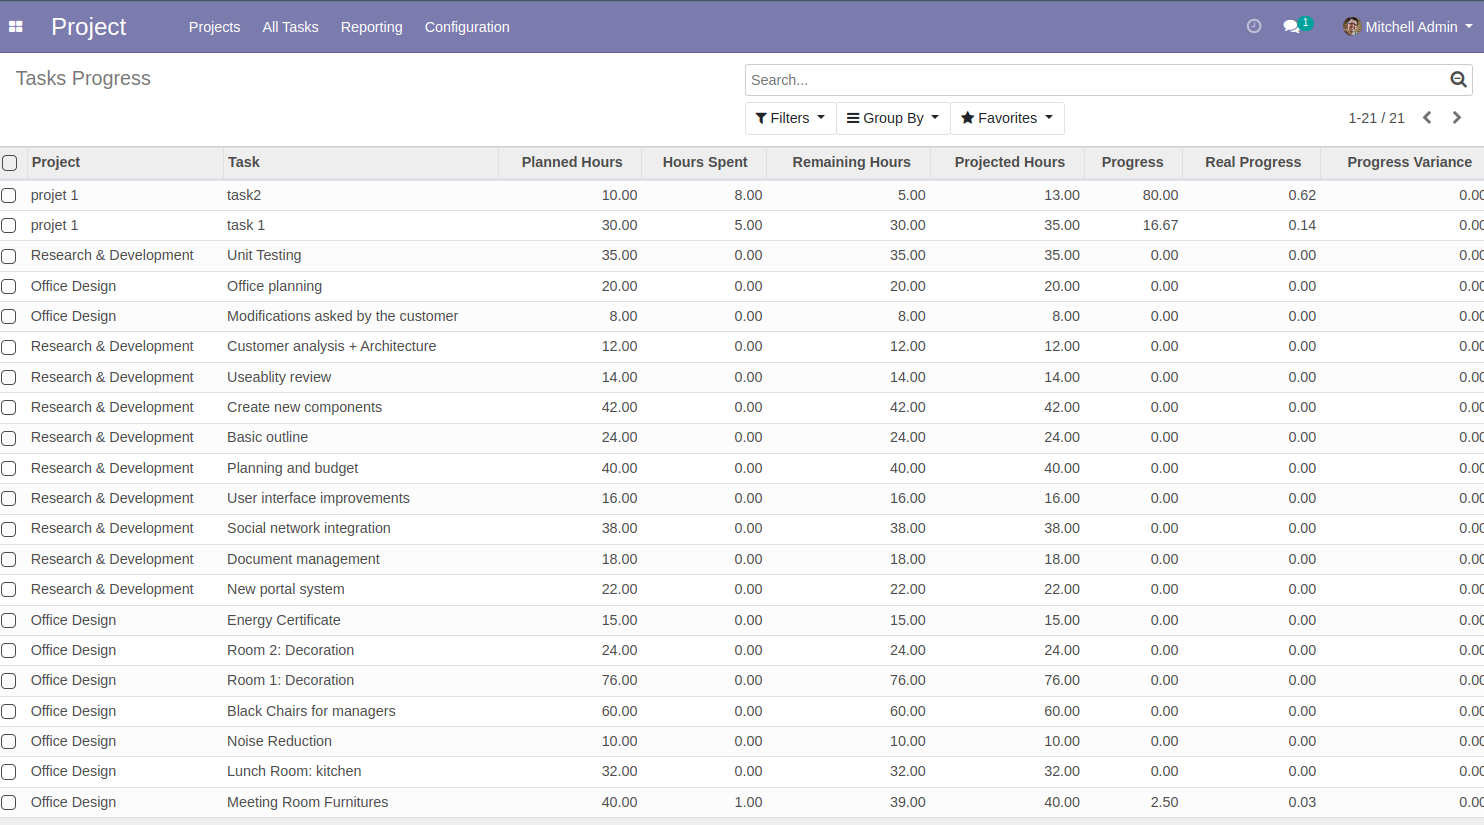
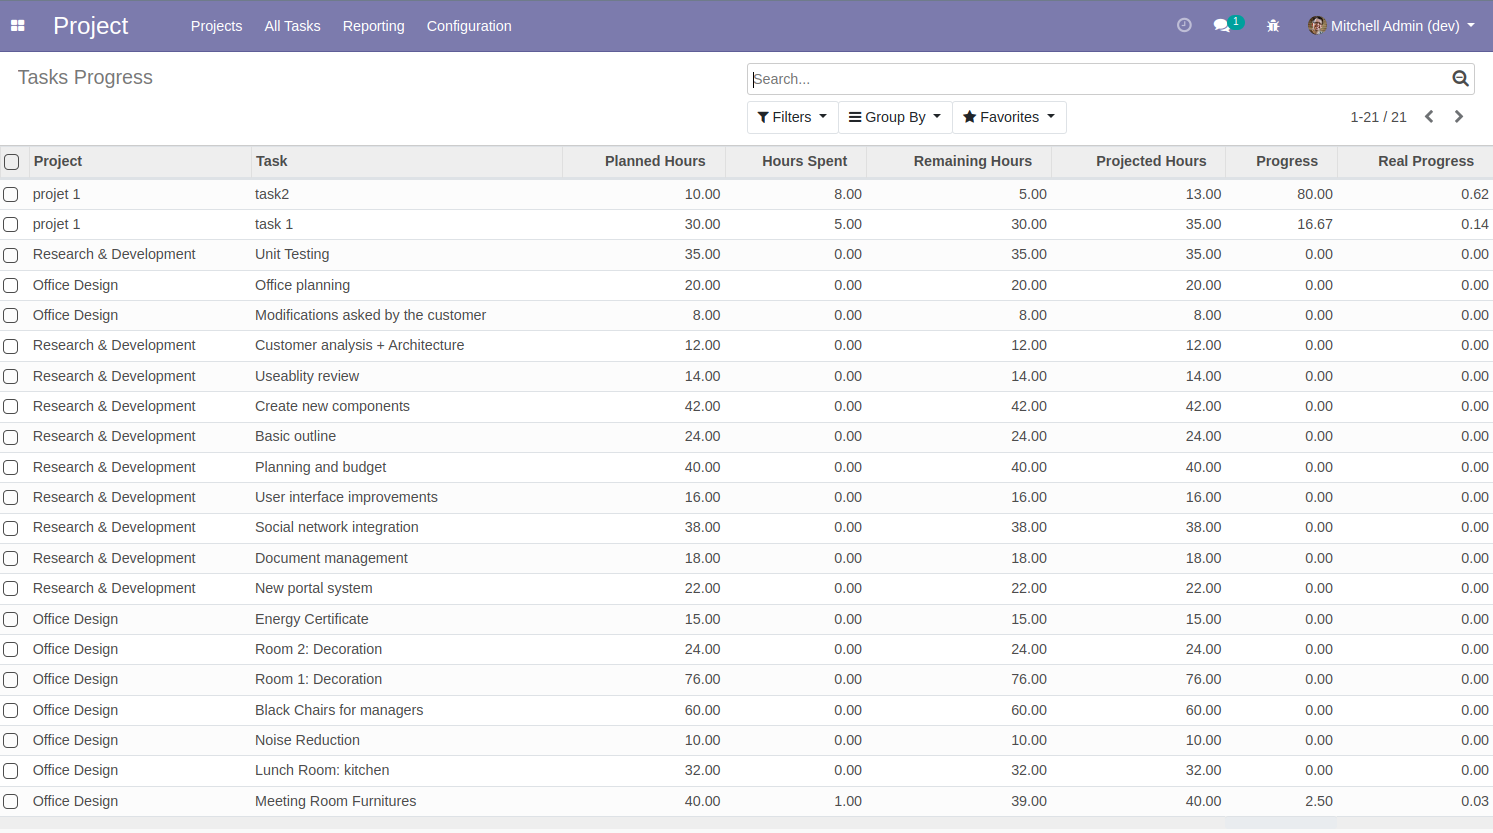
TA#53654 [ADD] New features

diff --git a/project_progress_variance/tests/test_progress_variance.py b/project_progress_variance/tests/test_progress_variance.py
@@ -1,0 +1,114 @@
+# © 2023 Numigi (tm) and all its contributors (https://bit.ly/numigiens)
+# License AGPL-3.0 or later (http://www.gnu.org/licenses/agpl).
+
+from datetime import datetime
+
+from odoo.tests.common import SavepointCase
+
+
+class TestCustomerReference(SavepointCase):
+    @classmethod
+    def setUpClass(cls):
+        super().setUpClass()
+        cls.project = cls.env["project.project"].create(
+            {"name": "test_project", "allow_timesheets": True}
+        )
+        cls.task_1 = cls.env["project.task"].create(
+            {"name": "test_task_1", "project_id": cls.project.id}
+        )
+
+        cls.task_2 = cls.env["project.task"].create(
+            {"name": "test_task_2", "project_id": cls.project.id}
+        )
+
+    # @api.depends("task_ids.planned_hours", "task_ids.effective_hours")
+    # def _compute_total_progress(self):
+    #     for project in self:
+    #         planned_hours = sum(project.task_ids.mapped("planned_hours"))
+    #         effective_hours = sum(project.task_ids.mapped("effective_hours"))
+    #         if planned_hours:
+    #             project.total_progress = effective_hours / planned_hours
+    #         else:
+    #             project.total_progress = 0
+
+    # @api.depends("task_ids.projected_hours", "task_ids.effective_hours")
+    # def _compute_total_real_progress(self):
+    #     for project in self:
+    #         projected_hours = sum(project.task_ids.mapped("projected_hours"))
+    #         effective_hours = sum(project.task_ids.mapped("effective_hours"))
+    #         if projected_hours:
+    #             project.total_real_progress = effective_hours / projected_hours
+    #         else:
+    #             project.total_real_progress = 0
+
+    # @api.depends("total_progress", "total_real_progress")
+    # def _compute_total_progress_variance(self):
+    #     for project in self:
+    #         project.total_progress_variance = (
+    #             project.total_real_progress - project.total_progress
+    #         )
+
+    def test_total_progress(self):
+        self.assertEqual(self.project.total_progress, 0)
+        self._load_analytic_line_remaining_hours_not_updated()
+        self.assertEqual(self.project.total_progress, 0.48)
+
+    def test_total_progress_remaining_hours_updated(self):
+        self.assertEqual(self.project.total_progress, 0)
+        self._load_analytic_line_with_remaining_hours_updated()
+        self.assertEqual(self.project.total_progress, 0.33)
+
+    def test_total_real_progress(self):
+        self.assertEqual(self.project.total_real_progress, 0)
+        self._load_analytic_line_remaining_hours_not_updated()
+        self.assertEqual(self.project.total_real_progress, 0.48)
+
+    def test_total_real_progress_remaining_hours_updated(self):
+        self.assertEqual(self.project.total_real_progress, 0)
+        self._load_analytic_line_with_remaining_hours_updated()
+        self.assertEqual(self.project.total_real_progress, 0.27)
+
+    def test_total_progress_variance(self):
+        self.assertEqual(self.project.total_progress_variance, 0)
+        self._load_analytic_line_remaining_hours_not_updated()
+        self.assertEqual(self.project.total_progress_variance, 0)
+
+    def test_total_progress_variance_remaining_hours_updated(self):
+        self.assertEqual(self.project.total_progress_variance, 0)
+        self._load_analytic_line_with_remaining_hours_updated()
+        self.assertEqual(self.project.total_real_progress, 0.27)
+        self.assertEqual(self.project.total_progress, 0.33)
+        self.assertEqual(self.project.total_progress_variance, -0.06)
+
+    def _load_analytic_line_remaining_hours_not_updated(self):
+        self.task_1.planned_hours = 10
+        self.task_2.planned_hours = 13
+        self._create_analytic_line(
+            datetime(2023, 3, 24, 3), tz="EST", task_id=self.task_1, unit_amount=7
+        )
+        self._create_analytic_line(
+            datetime(2023, 3, 24, 3), tz="EST", task_id=self.task_2, unit_amount=4
+        )
+
+    def _load_analytic_line_with_remaining_hours_updated(self):
+        self.task_1.planned_hours = 30
+        self.task_2.planned_hours = 10
+        self._create_analytic_line(
+            datetime(2023, 3, 24, 3), tz="EST", task_id=self.task_1, unit_amount=5
+        )
+        self._create_analytic_line(
+            datetime(2023, 3, 24, 3), tz="EST", task_id=self.task_2, unit_amount=8
+        )
+        self.task_1.remaining_hours = 30
+        self.task_2.remaining_hours = 5
+
+    def _create_analytic_line(self, datetime_, tz=None, task_id=False, unit_amount=0):
+        self.env["account.analytic.line"].with_context(tz=tz).create(
+            {
+                "date_time": datetime_,
+                "project_id": self.project.id,
+                "task_id": task_id.id,
+                "name": "Test line",
+                "unit_amount": unit_amount,
+            }
+        )

diff --git a/project_projected_hours/tests/test_projected_hours.py b/project_projected_hours/tests/test_projected_hours.py
@@ -1,0 +1,49 @@
+# © 2023 Numigi (tm) and all its contributors (https://bit.ly/numigiens)
+# License AGPL-3.0 or later (http://www.gnu.org/licenses/agpl).
+
+from datetime import datetime
+
+from odoo.tests.common import SavepointCase
+
+
+class TestCustomerReference(SavepointCase):
+    @classmethod
+    def setUpClass(cls):
+        super().setUpClass()
+        cls.project = cls.env["project.project"].create(
+            {"name": "test_project", "allow_timesheets": True}
+        )
+        cls.task_1 = cls.env["project.task"].create(
+            {"name": "test_task_1", "project_id": cls.project.id}
+        )
+
+        cls.task_2 = cls.env["project.task"].create(
+            {"name": "test_task_2", "project_id": cls.project.id}
+        )
+
+    def test_projected_hours(self):
+        self.task_1.planned_hours = 10
+        self._create_analytic_line(
+            datetime(2023, 3, 24, 3), tz="EST", task_id=self.task_1, unit_amount=1
+        )
+        self.assertEqual(self.task_1.projected_hours, 10)
+
+    def test_real_progress(self):
+        self.assertEqual(self.task_2.real_progress, 0)
+        self.task_2.planned_hours = 20
+        self._create_analytic_line(
+            datetime(2023, 3, 24, 3), tz="EST", task_id=self.task_2, unit_amount=3
+        )
+
+        self.assertEqual(self.task_2.real_progress, 0.15)
+
+    def _create_analytic_line(self, datetime_, tz=None, task_id=False, unit_amount=0):
+        self.env["account.analytic.line"].with_context(tz=tz).create(
+            {
+                "date_time": datetime_,
+                "project_id": self.project.id,
+                "task_id": task_id.id,
+                "name": "Test line",
+                "unit_amount": unit_amount,
+            }
+        )

diff --git a/project_projected_hours/models/project_task.py b/project_projected_hours/models/project_task.py
@@ -20,13 +20,6 @@ class ProjectTask(models.Model):
         readonly=True,
         store=True,
     )
-    progress_variance = fields.Float(
-        "Progress Variance",
-        digits=(16, 2),
-        compute="_compute_progress_variance",
-        readonly=True,
-        store=True,
-    )
 
     @api.depends("effective_hours", "remaining_hours")
     def _compute_projected_hours(self):
@@ -41,8 +34,3 @@ class ProjectTask(models.Model):
                 task.real_progress = task.effective_hours / projected_hours
             else:
                 task.real_progress = 0
-
-    @api.depends("progress", "real_progress")
-    def _compute_progress_variance(self):
-        for task in self:
-            task.real_progress = task.real_progress - task.progress

diff --git a/project_progress_variance/models/project_task.py b/project_progress_variance/models/project_task.py
@@ -1,0 +1,21 @@
+# © 2023 Numigi (tm) and all its contributors (https://bit.ly/numigiens)
+# License AGPL-3.0 or later (http://www.gnu.org/licenses/agpl).
+
+from odoo import api, fields, models
+
+
+class ProjectTask(models.Model):
+    _inherit = "project.task"
+
+    progress_variance = fields.Float(
+        "Progress Variance",
+        digits=(16, 2),
+        compute="_compute_progress_variance",
+        readonly=True,
+        store=True,
+    )
+
+    @api.depends("progress", "real_progress")
+    def _compute_progress_variance(self):
+        for task in self:
+            task.real_progress = task.real_progress - task.progress

diff --git a/project_progress_variance/models/__init__.py b/project_progress_variance/models/__init__.py
@@ -1,4 +1,5 @@
 # © 2023 Numigi (tm) and all its contributors (https://bit.ly/numigiens)
-# License AGPL-3.0 or later (http://www.gnu.org/licenses/lgpl).
+# License AGPL-3.0 or later (http://www.gnu.org/licenses/agpl).
 
 from . import project_project
+from . import project_task

diff --git a/project_progress_variance/__manifest__.py b/project_progress_variance/__manifest__.py
@@ -13,6 +13,8 @@
     "summary": "Add some progress variance time on task and project",
     "data": [
         "views/project_project.xml",
+        "views/project_task.xml",
+        "views/project_task_progress_report.xml",
     ],
     "installable": True,
 }

diff --git a/project_progress_variance/__init__.py b/project_progress_variance/__init__.py
@@ -1,4 +1,4 @@
 # © 2023 Numigi (tm) and all its contributors (https://bit.ly/numigiens)
-# License AGPL-3.0 or later (http://www.gnu.org/licenses/lgpl).
+# License AGPL-3.0 or later (http://www.gnu.org/licenses/agpl).
 
 from . import models

diff --git a/project_projected_hours/__init__.py b/project_projected_hours/__init__.py
@@ -1,4 +1,4 @@
 # © 2023 Numigi (tm) and all its contributors (https://bit.ly/numigiens)
-# License AGPL-3.0 or later (http://www.gnu.org/licenses/lgpl).
+# License AGPL-3.0 or later (http://www.gnu.org/licenses/agpl).
 
 from . import models

diff --git a/project_progress_variance/tests/__init__.py b/project_progress_variance/tests/__init__.py
@@ -1,4 +1,4 @@
 # © 2023 Numigi (tm) and all its contributors (https://bit.ly/numigiens)
 # License AGPL-3.0 or later (http://www.gnu.org/licenses/agpl).
 
-from . import project_task
+from . import test_progress_variance

diff --git a/project_projected_hours/tests/__init__.py b/project_projected_hours/tests/__init__.py
@@ -1,4 +1,4 @@
 # © 2023 Numigi (tm) and all its contributors (https://bit.ly/numigiens)
 # License AGPL-3.0 or later (http://www.gnu.org/licenses/agpl).
 
-from . import project_task
+from . import test_projected_hours

diff --git a/project_progress_variance/README.rst b/project_progress_variance/README.rst
@@ -3,11 +3,25 @@ Project Progress Variance
 This module allows to:
 
 * Add the ”Variance on progress” field in the form view of a task
+Computed as : task real progress + task theorical progress.
+
+.. image:: static/description/task_progress_variance.png
+
 * Add the “Variance on progress” in the analysis list view “Progress of tasks”
+
+.. image:: static/description/task_progress_report.png
+
 * Add the ”Progress” tab in the form view of a project
    * The “Total theoretical progress” field
-   * The “Actual progress total” field
+   Computed as : total of effective hours of project tasks / total of planned hours of project tasks.
+
+   * The "Total real progress" field
+   Computed as : total of effective hours of project tasks / total of projected hours of project tasks.
+
    * The “Total variance on progress” field
+   Computed as : total of real progress - Total theoretical progress.
+
+.. image:: static/description/project_progress_tab.png
 
 Contributors
 ------------

diff --git a/project_projected_hours/README.rst b/project_projected_hours/README.rst
@@ -12,11 +12,6 @@ Computed as : task effective hours / (task effective hours + task remaining hour
 
 .. image:: static/description/task_real_progress.png
 
-* Add the "Progress Variance” field in the form view of a task
-Computed as : task real progress + task theorical progress.
-
-.. image:: static/description/task_progress_variance.png
-
 * Add a “Task Progress” analysis list view
     * Add a list view with the elements to filter and group excluding the variance on progress
 
